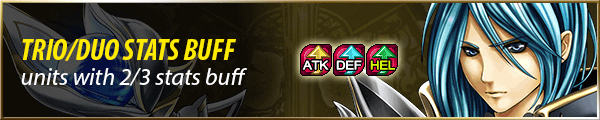
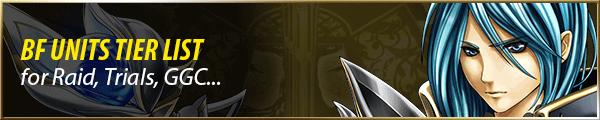
update, add new page

diff --git a/bravefrontier/tier_list_content.html b/bravefrontier/tier_list_content.html
@@ -1,0 +1,144 @@
+<!doctype html>
+<html>
+<head>
+<meta charset="utf-8">
+<title>Brave Frontier</title>
+<meta name="viewport" content="width=device-width, initial-scale=1">
+<meta property="og:image" content="http://ntttoon.github.io/bravefrontier/images/fb_tier_a.jpg" />
+<meta property="og:title" content="Brave Frontier Units Tier List for Raid/Trials/GGC..." />
+<meta property="og:description" content="Click here to find out" />
+<link rel="stylesheet" href="../css/w3.css">
+<link rel="stylesheet" href="http://cdnjs.cloudflare.com/ajax/libs/font-awesome/4.4.0/css/font-awesome.min.css">
+<script src="../js/ga.js"></script>
+<script src="js/libs.js"></script>
+<style>
+a{
+	text-decoration:none;
+}
+</style>
+</head>
+
+<body>
+<!-- Navbar -->
+<div class="w3-top">
+ <div class="w3-bar w3-teal w3-left-align">
+  <a class="w3-hover-white w3-hide-medium w3-hide-large w3-opennav w3-display-topright w3-bar-item" href="javascript:void(0);" onclick="openNav()"><i class="fa fa-bars"></i></a>
+  <a href="index.html" class="w3-hover-white w3-hide-small w3-bar-item"><i class="fa fa-home"></i></a>
+ </div>
+
+  <!-- Navbar on small screens -->
+  <div id="navDemo" class="w3-hide w3-hide-large w3-hide-medium">
+    <div class="w3-bar-block w3-teal">
+      <a href="index.html" class=" w3-bar-item"><i class="fa fa-home"></i> Home</a>
+    </div>
+  </div>
+</div>
+<!-- end Navbar -->
+<script>
+// Used to toggle the menu on smaller screens when clicking on the menu button
+function openNav() {
+    var x = document.getElementById("navDemo");
+    if (x.className.indexOf("w3-show") == -1) {
+        x.className += " w3-show";
+    } else { 
+        x.className = x.className.replace(" w3-show", "");
+    }
+}
+</script>
+
+<div style="margin-top:40px;"></div>
+<h2 class="w3-center"><strong>Brave Frontier Units Tier List<br>Danh sách xếp hạng unit cho các content khó như: Trial/Raid/GGC..v..v.. </strong></h2>
+<h1 class="w3-center w3-text-red"><strong>SS Tier</strong></h1><div class="w3-medium w3-center">nhiều buff ngon, OP, nuker xịn</div>
+<div class="w3-red"> 
+	<div id="ss_placeholder"> </div>
+</div>
+<h1 class="w3-center w3-text-orange"><strong>S Tier</strong></h1><div class="w3-medium w3-center"> những unit quan trọng không kém SS, rất hữu dụng</div>
+<div class="w3-orange"> 
+	<div id="s_placeholder"> </div>
+</div>
+<h1 class="w3-center w3-text-blue"><strong>A Tier</strong></h1><div class="w3-medium w3-center"> những unit này dùng trong một vài content nhất định. Không ưu tiên up những unit này trừ khi cần. Ví dụ đi FG Light bị thiếu unit Light, Arena/Colosseum..v..v..</div>
+<div class="w3-blue"> 
+	<div id="a_placeholder"> </div>
+</div>
+<h1 class="w3-center w3-text-grey"><strong>B Tier</strong></h1><div class="w3-medium w3-center"> những unit này dễ dàng bị "đá" bởi các unit khác do buffs thấp, animation không ngon, bộ skill bb/sbb/ubb không tốt..v..v. nếu để sưu tầm, trưng kho thì được.</div>
+<div class="w3-grey"> 
+	<div id="b_placeholder"> </div>
+</div>
+
+<script>
+	var xmlhttp = new XMLHttpRequest();
+	var url = "data/units.json";
+	
+	xmlhttp.onreadystatechange=function() {
+		if (xmlhttp.readyState == 4 && xmlhttp.status == 200) {
+			myFunction(xmlhttp.responseText);
+		}
+	}
+	xmlhttp.open("GET", url, true);
+	xmlhttp.send();
+	
+	var tier_ss = [8239,1633,1388,1558,1647,8296,1590,1591,8283];
+	var tier_s = [1494,1556,1625,8268,8280,1408,1492,1584,1652,8259,8288,1420,1443,1550,1566,1586,1612,1621,1627,8264,8255,1512,1574,1604,1654,8254,8270,1386,1398,1490,1588,1618,1636,8187,8234,8241,8284,8303,1518,1562,1639,8190,8237,8278,8290,8298,8306];
+	var tier_a = [1309,1418,1435,1506,1537,1570,1583,1610,1638,1664,1553,8201,8224,8261,1303,1351,1437,1449,1514,1548,1564,1572,1614,8243,8292,1376,1441,1454,1508,1554,8216,8252,8272,8300,1356,1440,1445,1451,1510,1540,1552,1622,1644,8228.8,8266,8245,8302,1306,1367,1381,1394,1439,1453,1455,1516,1522,1606,1646,1600,8199,8230,8192,1368,1399,1400,1498,1560,1623,1629,1637,1665,8250,8257,8281];
+	var tier_b = [1302,1387,1390,1458,1491,1520,1607,1650,8235,8275,1392,1402,1486,1511,1538,1602,1608,8276,1304,1396,1460,1488,1539,8249,1305,1404,1496,1568,1616,8263,8273,1561,8274,1307,1410,1447,1462,1524,1635,8208,8222,8232];
+	function myFunction(response) {
+		var arr = JSON.parse(response);
+		var i;
+		var out = "<ul class='w3-ul'><div class='w3-center'>";
+		var out2 = out;
+		var out3 = out;
+		var out4 = out;
+
+		var json_len = arr.brave.unit.length;
+		for(i = 0; i < tier_ss.length; i++) {
+			for(j = 0; j < json_len; j++) {
+				var id = arr.brave.unit[j].id;
+				var thumb = arr.brave.unit[j].thumb['@path'];
+				if(id == tier_ss[i]){
+					out+='<a href="unitinfo.html?id=' + id + '" target="_blank"> <img src="' + thumb + '" style="width:60px;margin-top:5px;"></a>';
+				}
+			}
+		}
+		out+="</ul></div>";
+		document.getElementById("ss_placeholder").innerHTML = out;
+		////////////////////
+		for(i = 0; i < tier_s.length; i++) {
+			for(j = 0; j < json_len; j++) {
+				var id = arr.brave.unit[j].id;
+				var thumb = arr.brave.unit[j].thumb['@path'];
+				if(id == tier_s[i]){
+					out2+='<a href="unitinfo.html?id=' + id + '" target="_blank"> <img src="' + thumb + '" style="width:60px;margin-top:5px;"></a>';
+				}
+			}
+		}
+		out2+="</ul></div>";
+		document.getElementById("s_placeholder").innerHTML = out2;
+		////////////////////
+		for(i = 0; i < tier_a.length; i++) {
+			for(j = 0; j < json_len; j++) {
+				var id = arr.brave.unit[j].id;
+				var thumb = arr.brave.unit[j].thumb['@path'];
+				if(id == tier_a[i]){
+					out3+='<a href="unitinfo.html?id=' + id + '" target="_blank"> <img src="' + thumb + '" style="width:60px;margin-top:5px;"></a>';
+				}
+			}
+		}
+		out3+="</ul></div>";
+		document.getElementById("a_placeholder").innerHTML = out3;
+		////////////////////
+		for(i = 0; i < tier_b.length; i++) {
+			for(j = 0; j < json_len; j++) {
+				var id = arr.brave.unit[j].id;
+				var thumb = arr.brave.unit[j].thumb['@path'];
+				if(id == tier_b[i]){
+					out4+='<a href="unitinfo.html?id=' + id + '" target="_blank"> <img src="' + thumb + '" style="width:60px;margin-top:5px;"></a>';
+				}
+			}
+		}
+		out4+="</ul></div>";
+		document.getElementById("b_placeholder").innerHTML = out4;
+	}
+
+</script>
+</body>
+</html>

diff --git a/bravefrontier/index.html b/bravefrontier/index.html
@@ -38,6 +38,9 @@
     <div class="w3-card-2"> <a href="sample_sp.html"><img src="images/banner_06.png" style="width:100%"></a></div>
   </div>-->
   <div class="w3-third w3-margin-bottom">
+    <div class="w3-card-2"> <a href="tier_list_content.html"><img src="images/banner_08.png" style="width:100%"></a></div>
+  </div>
+  <div class="w3-third w3-margin-bottom">
     <div class="w3-card-2"> <a href="mu_spheres.html"><img src="images/banner_07.png" style="width:100%"></a></div>
   </div>
   <!--<div class="w3-third w3-margin-bottom">
@@ -48,6 +51,9 @@
   </div>
   <div class="w3-third w3-margin-bottom">
     <div class="w3-card-2"> <a href="bfdialogue.html"><img src="images/banner_10.png" style="width:100%"></a></div>
+  </div>
+  <div class="w3-third w3-margin-bottom">
+    <div class="w3-card-2"> <a href="bfcard.html"><img src="images/banner_11.png" style="width:100%"></a></div>
   </div>
 </div>
 </body>
